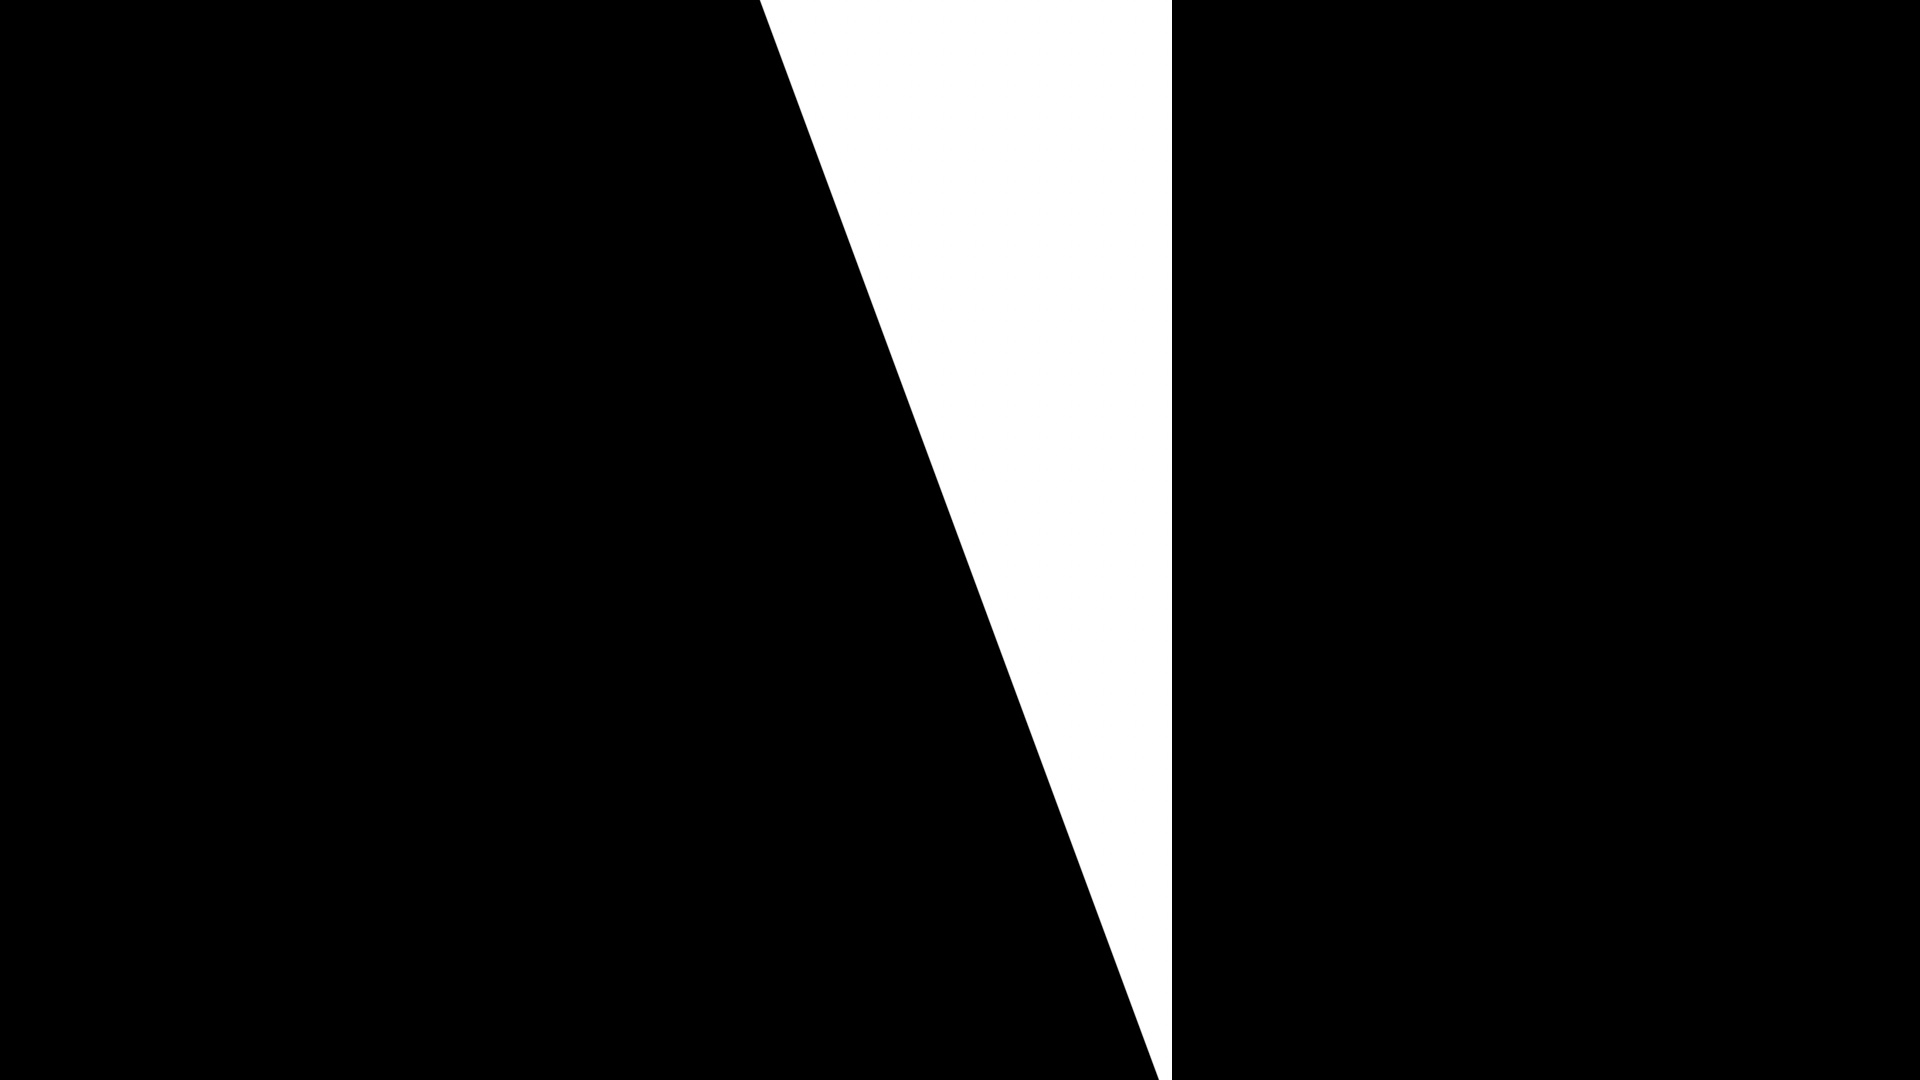
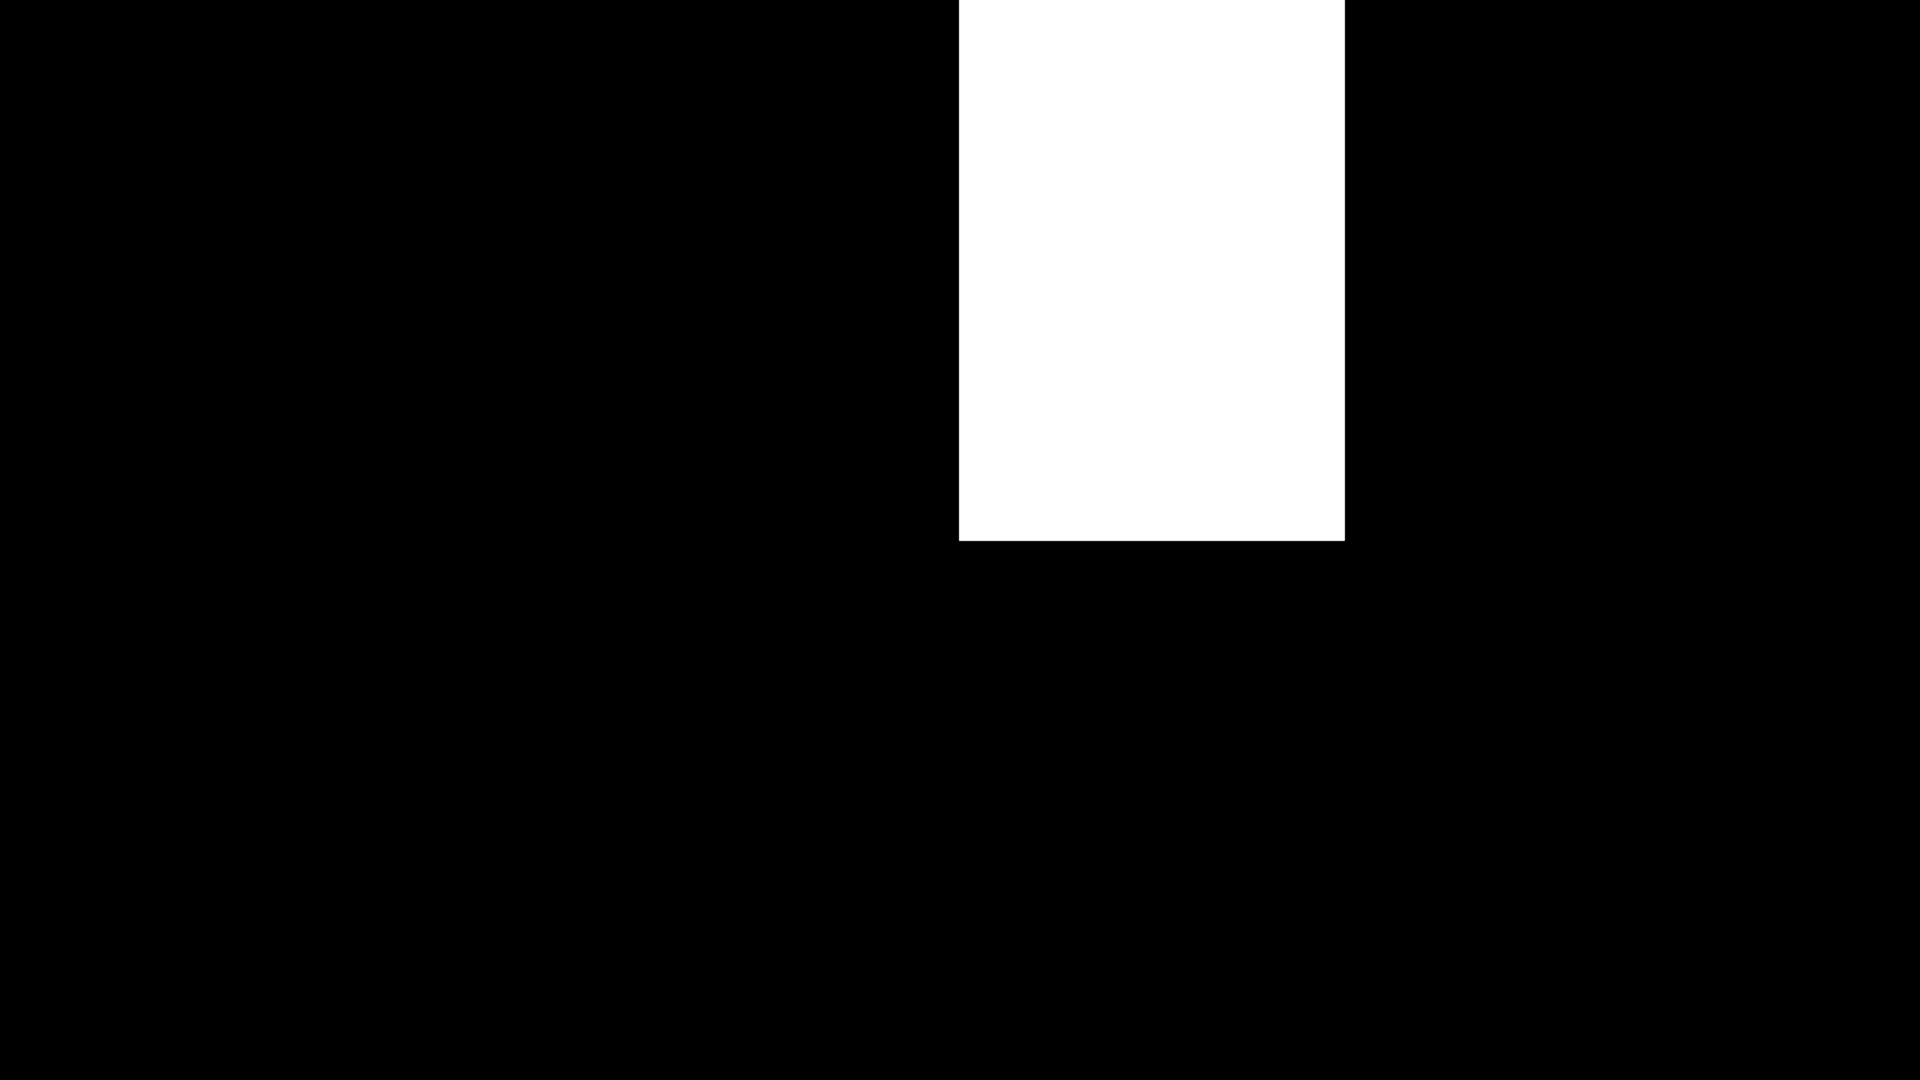
AUDIT: minimizer fully fixed+verified (fresh Center repro keeps full sceneSettings incl frameRate, renders 1:1); real Center bug isolated = FCP half-rect vs engine triangle tessellation (not winding); old _t_center3 superseded

Changed region(s): [[0.5, 0.0, 0.7188, 1.0], [0.375, 0.0, 0.5, 0.4889]]

diff --git a/fct/AUDIT_2026-07-24.md b/fct/AUDIT_2026-07-24.md
@@ -4176,3 +4176,27 @@ identically — verified). NEXT after re-minimize: check whether the fresh (fram
 shape is still degenerate; if it is, decode FCP's curve_X/curve_Y→contour rule via ProShapes
 getContour/getSamples disasm (target polygon exactly known). If the fresh repro converges high (bug was
 only white-fill + the artifacts), then Center is DONE.
+
+## 2026-07-26 (cont6) — MINIMIZER fully fixed & VERIFIED; real Center bug isolated at 1:1 scale
+Re-minimized Stylized__Center with BOTH minimizer fixes (d061de3 + 28eb4a3). The fresh repro
+fct/minimized/_t_center_ss/ now keeps the COMPLETE <sceneSettings> (width 1920, height 1080,
+duration 159, frameRate 30, pixelAspectRatio 1) — so FCP renders at the correct 1:1 scale.
+Still diverges 8.18 dB → a REAL engine bug, no longer masked by the scale artifact.
+
+The REAL divergence (frame 16, correct 1:1 scale), shape verts X=[0,0,0,-383.9] Y=[571,0,-571,0]:
+  FCP    fills a RECTANGLE x[-1..+384] over the TOP half only (y 0..540), empty below.
+  ENGINE fills a TRIANGLE x[0..+383] over the BOTTOM half (y 540..900), apex at mid.
+Same degenerate polygon, FUNDAMENTALLY different filled region. Confirmed even-odd == nonzero
+winding both give the engine's triangle (python-verified), so it is NOT a winding-rule swap.
+FCP's region is a half-rectangle; the engine's is a triangle. This is FCP's shape TESSELLATION
+of a self-intersecting/degenerate curve_X/curve_Y contour — needs ProShapes OZShape::getContour /
+computeOutline / getSamples disasm to decode the exact curve→region rule (GLU tessellator uses
+WINDING_NONZERO — read at gluTessProperty 0x307a0 = 100131 — but the INPUT contour it receives
+from computeOutlinePolygons is what differs; the vertex→contour construction is the unknown).
+Repro: fct/minimized/_t_center_ss (correct scale). Old _t_center3 (no sceneSettings) is a stale
+scale-artifact repro — SUPERSEDED; can be deleted.
+
+NET this session: (1) shipped white-fill default (770cc93, binary-decoded); (2) shipped minimizer
+sceneSettings guard (d061de3); (3) shipped minimizer frameRate guard (28eb4a3) — the last two fix a
+real TOOL bug that was manufacturing false ~2.9× "geometry scale" divergences on EVERY shape repro
+whose sceneSettings got stripped. High leverage: all future minimizations now preserve FCP's scale.
